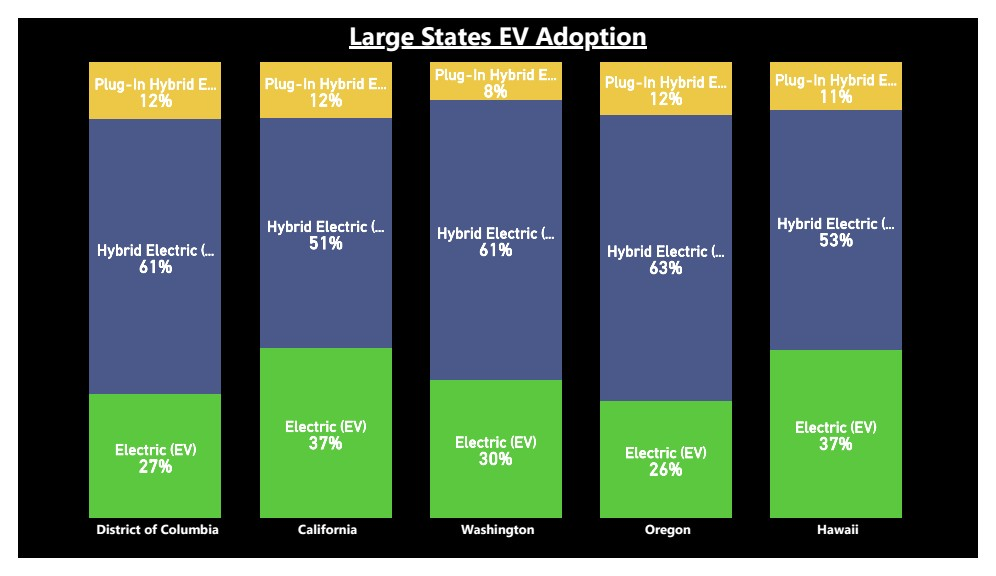
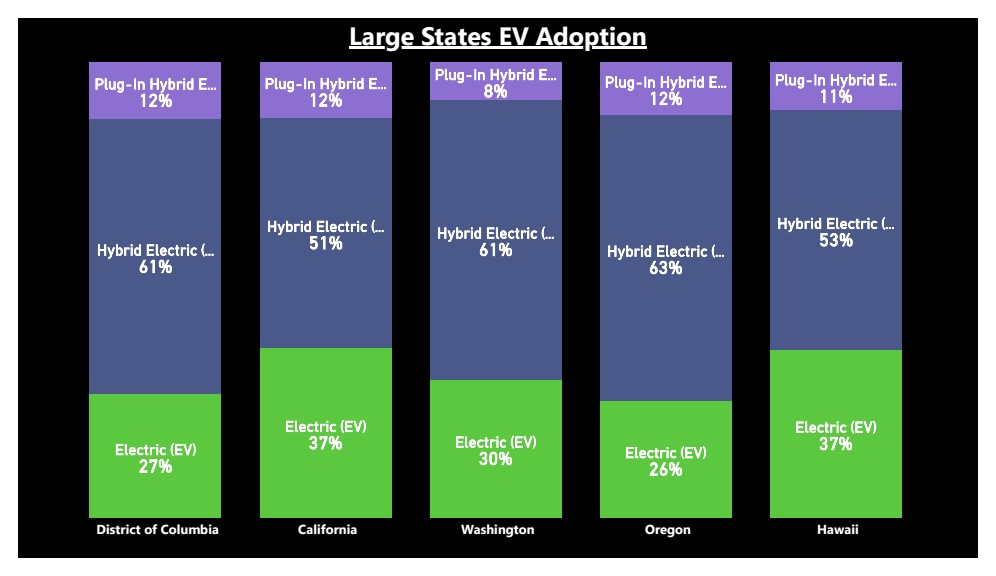
Exported final dashboard and images

Changed region(s): [[0.0622, 0.0938, 0.9026, 0.2188]]

diff --git a/README.md b/README.md
@@ -64,7 +64,7 @@ This project analyzes electric and traditional vehicle registrations across all 
 
 [:link:Processed Data](Data/Processed_Data/vehicle_data_final.xlsx)
 
-> **Note:** On GitHub, click the link above then click the **Download** 
+> **Note:** On GitHub, click the link above then click the :arrow_down: **Download** 
 > button (or press the download icon) on the top right of the page to save the file.
 
 ## :hammer: Tech Stack